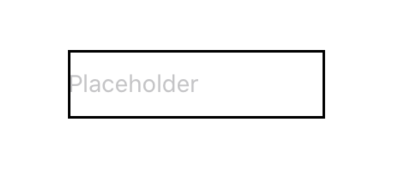
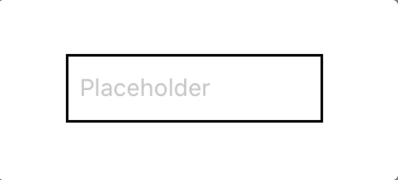
[Update] Readme and TextField

Changed region(s): [[0.1515, 0.2874, 0.8485, 0.6897], [0.9697, 0.977, 1.0, 1.0], [0.9697, 0.0, 1.0, 0.0287]]

diff --git a/Source/Designable/TextField.swift b/Source/Designable/TextField.swift
@@ -11,33 +11,48 @@ import UIKit
 @IBDesignable
 open class TextField: UITextField {
     
+    open override func awakeFromNib() {
+        setupLayer()
+    }
+    
+    open override func prepareForInterfaceBuilder() {
+        setupLayer()
+    }
+    
     override open func layoutSubviews() {
         super.layoutSubviews()
         
         gradient?.frame = self.layer.bounds
     }
     
+    func setupLayer() {
+        if paddingLeftCustom == 8 {
+            let paddingView = UIView(frame: CGRect(x: 0, y: 0, width: paddingLeftCustom, height: frame.size.height))
+            self.leftView = paddingView
+            self.leftViewMode = .always
+        }
+        if paddingRightCustom == 8 {
+            let paddingView = UIView(frame: CGRect(x: 0, y: 0, width: paddingRightCustom, height: frame.size.height))
+            self.rightView = paddingView
+            self.rightViewMode = .always
+        }
+    }
+    
     //MARK: - Padding
     
-    @IBInspectable var paddingLeftCustom: CGFloat {
-        get {
-            return leftView!.frame.size.width
-        }
-        set {
-            let paddingView = UIView(frame: CGRect(x: 0, y: 0, width: newValue, height: frame.size.height))
-            leftView = paddingView
-            leftViewMode = .always
+    @IBInspectable open var paddingLeftCustom: CGFloat = 8 {
+        didSet {
+            let paddingView = UIView(frame: CGRect(x: 0, y: 0, width: paddingLeftCustom, height: frame.size.height))
+            self.leftView = paddingView
+            self.leftViewMode = .always
         }
     }
 
-    @IBInspectable var paddingRightCustom: CGFloat {
-        get {
-            return rightView!.frame.size.width
-        }
-        set {
-            let paddingView = UIView(frame: CGRect(x: 0, y: 0, width: newValue, height: frame.size.height))
-            rightView = paddingView
-            rightViewMode = .always
+    @IBInspectable open var paddingRightCustom: CGFloat = 8 {
+        didSet {
+            let paddingView = UIView(frame: CGRect(x: 0, y: 0, width: paddingRightCustom, height: frame.size.height))
+            self.rightView = paddingView
+            self.rightViewMode = .always
         }
     }
     
@@ -46,12 +61,18 @@ open class TextField: UITextField {
     @IBInspectable open var borderColor: UIColor = UIColor.clear {
         didSet {
             self.layer.borderColor = borderColor.cgColor
+            if borderColor != UIColor.clear && borderWidth > 0 {
+                self.borderStyle = .none
+            }
         }
     }
     
     @IBInspectable open var borderWidth: CGFloat = 0 {
         didSet {
             self.layer.borderWidth = borderWidth
+            if borderColor != UIColor.clear && borderWidth > 0 {
+                self.borderStyle = .none
+            }
         }
     }
     

diff --git a/README.md b/README.md
@@ -377,14 +377,14 @@ gradientHorizontal | Bool  | Is the horizontal gradient background.  | false
 
 ###### - Padding
 
-None | Left | Right | Left & Right
+Left: 0, Right: 0  | Left: 8, Right: 0 | Left: 0, Right: 8 | Left: 8, Right: 8
 ------------ | ------------- | ------------- | ------------- 
 <img src="Screenshot/PaddingNo_TextField.png" alt="" width="200"/> | <img src="Screenshot/PaddingL_TextField.png" alt="" width="200"/> | <img src="Screenshot/PaddingR_TextField.png" alt="" width="200"/> | <img src="Screenshot/PaddingLR_TextField.png" alt="" width="200"/> 
 
 Parameter | Type | Description | Default 
 ------------ | ------------- | ------------- | ------------- 
-paddingLeftCustom | CGFloat  | Pads the view along left edges by the specified amount. | 0 
-paddingRightCustom | CGFloat  | Pads the view along right edges by the specified amount. | 0 
+paddingLeftCustom | CGFloat  | Pads the view along left edges by the specified amount. | 8 
+paddingRightCustom | CGFloat  | Pads the view along right edges by the specified amount. | 8 
 
 ### - TextView
 
